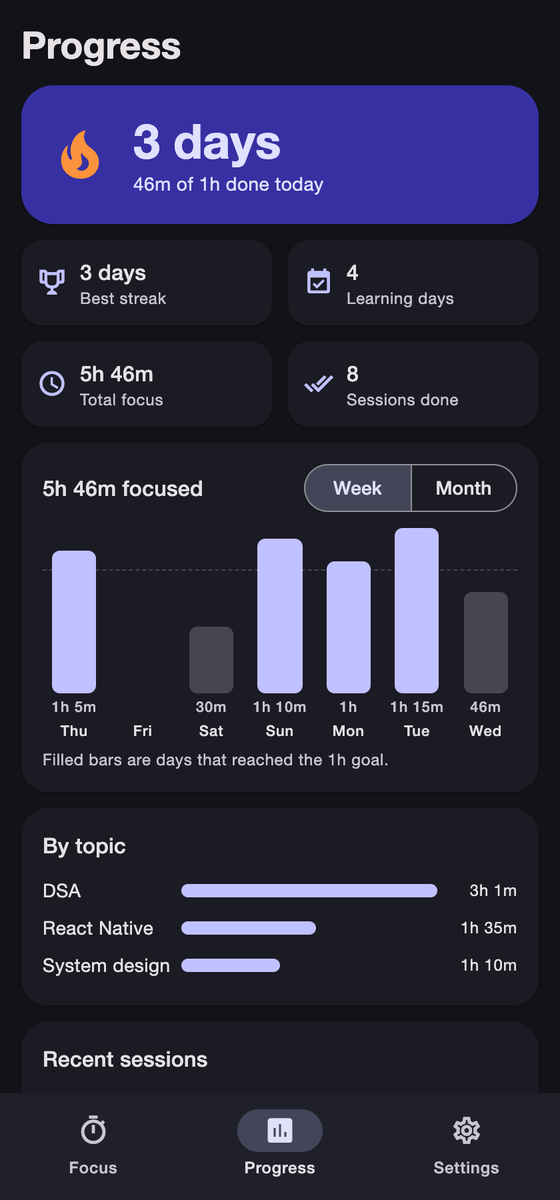
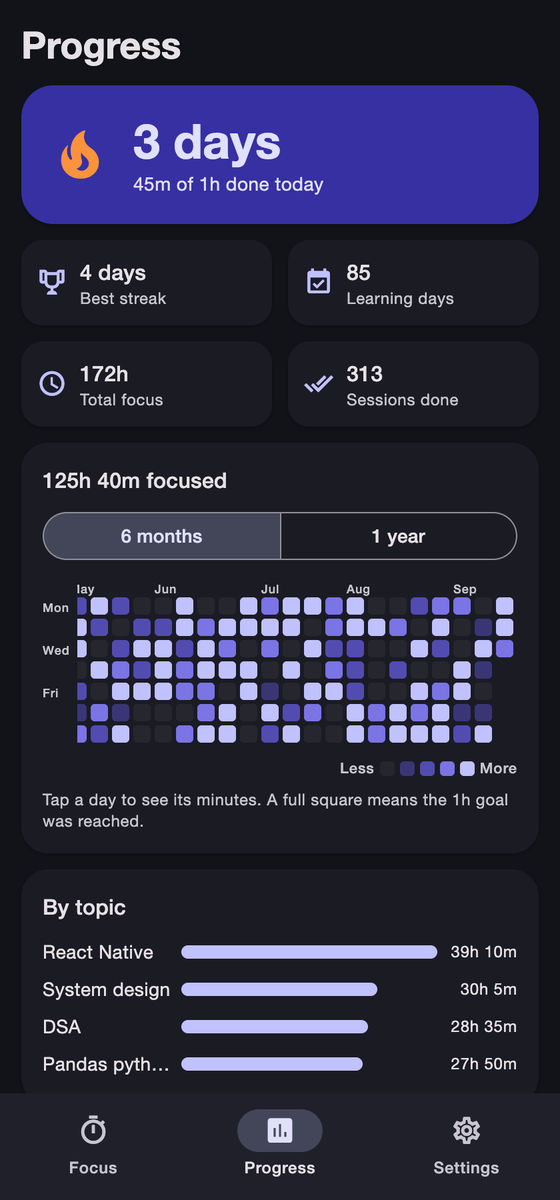
Show focus history as a GitHub-style heatmap
- New ContributionGraph: one square per day, one column per week, shaded by
  how much of the daily goal was reached; tap a day for its minutes
- Progress tab covers 6 months or a year instead of 7/30 days
- Fix 'By topic' listing abandoned sessions as 'No topic': per-topic totals
  now use the same credit rule as the streak and hide anything under a minute

diff --git a/app/src/screens/StatsScreen.js b/app/src/screens/StatsScreen.js
@@ -3,9 +3,10 @@ import { RefreshControl, ScrollView, StyleSheet, View } from 'react-native';
 import { MaterialCommunityIcons } from '@expo/vector-icons';
 import { List, SegmentedButtons, Surface, Text, useTheme } from 'react-native-paper';
 import { SafeAreaView } from 'react-native-safe-area-context';
+import { ContributionGraph } from '../components/ContributionGraph';
 import { InfoTile } from '../components/InfoTile';
 import { useFocus } from '../hooks/FocusContext';
-import { formatMinutes, formatSessionTime, weekdayOf } from '../utils/format';
+import { formatLongDate, formatMinutes, formatSessionTime } from '../utils/format';
 
 const STATUS_ICON = {
   completed: 'check-circle',
@@ -13,47 +14,11 @@ const STATUS_ICON = {
   active: 'timer-sand'
 };
 
-function BarChart({ daily, goal }) {
-  const theme = useTheme();
-  const max = Math.max(goal || 0, 30, ...daily.map((d) => d.minutes));
-  const compact = daily.length > 14;
-  return (
-    <View style={styles.chart}>
-      {goal ? (
-        // Dashed-looking goal line across the chart
-        <View
-          style={[styles.goalLine, { bottom: `${(goal / max) * 100}%`, borderColor: theme.colors.outlineVariant }]}
-        />
-      ) : null}
-      {daily.map((d) => (
-        <View key={d.date} style={styles.barCol}>
-          <View style={styles.barTrack}>
-            <View
-              style={{
-                height: `${Math.max(d.minutes ? 4 : 0, (d.minutes / max) * 100)}%`,
-                backgroundColor: d.counts_for_streak ? theme.colors.primary : theme.colors.outlineVariant,
-                borderRadius: compact ? 2 : 6
-              }}
-            />
-          </View>
-          {!compact ? (
-            <>
-              <Text variant="labelSmall" style={{ color: theme.colors.onSurfaceVariant }}>
-                {d.minutes ? formatMinutes(d.minutes) : ''}
-              </Text>
-              <Text variant="labelSmall">{weekdayOf(d.date)}</Text>
-            </>
-          ) : null}
-        </View>
-      ))}
-    </View>
-  );
-}
-
 export function StatsScreen() {
   const theme = useTheme();
   const { api, online, status, todayMinutes, goalMinutes, goalReached, pending } = useFocus();
-  const [days, setDays] = useState('7');
+  const [days, setDays] = useState('182');
+  const [selectedDay, setSelectedDay] = useState(null);
   const [stats, setStats] = useState(null);
   const [sessions, setSessions] = useState([]);
   const [loading, setLoading] = useState(false);
@@ -127,20 +92,36 @@ export function StatsScreen() {
         <Surface elevation={1} style={styles.card}>
           <View style={styles.cardHeader}>
             <Text variant="titleMedium">{formatMinutes(periodMinutes)} focused</Text>
-            <SegmentedButtons
-              density="small"
-              value={days}
-              onValueChange={setDays}
-              style={{ width: 160 }}
-              buttons={[
-                { value: '7', label: 'Week' },
-                { value: '30', label: 'Month' }
-              ]}
-            />
           </View>
-          {stats ? <BarChart daily={stats.daily} goal={streak?.goal_minutes} /> : null}
-          <Text variant="bodySmall" style={{ color: theme.colors.onSurfaceVariant, marginTop: 6 }}>
-            Filled bars are days that reached the {formatMinutes(streak?.goal_minutes ?? 60)} goal.
+          <SegmentedButtons
+            density="small"
+            value={days}
+            onValueChange={(v) => {
+              setDays(v);
+              setSelectedDay(null);
+            }}
+            style={{ marginBottom: 14 }}
+            buttons={[
+              { value: '182', label: '6 months' },
+              { value: '365', label: '1 year' }
+            ]}
+          />
+          {stats ? (
+            <ContributionGraph
+              daily={stats.daily}
+              goal={streak?.goal_minutes ?? 60}
+              selected={selectedDay}
+              onSelect={(day) => setSelectedDay((cur) => (cur?.date === day.date ? null : day))}
+            />
+          ) : null}
+          <Text variant="bodySmall" style={{ color: theme.colors.onSurfaceVariant, marginTop: 8 }}>
+            {selectedDay
+              ? `${formatLongDate(new Date(`${selectedDay.date}T00:00:00`))} · ${
+                  selectedDay.minutes ? formatMinutes(selectedDay.minutes) : 'no focus'
+                }${selectedDay.counts_for_streak ? ' · goal reached' : ''}`
+              : `Tap a day to see its minutes. A full square means the ${formatMinutes(
+                  streak?.goal_minutes ?? 60
+                )} goal was reached.`}
           </Text>
         </Surface>
 
@@ -209,13 +190,9 @@ const styles = StyleSheet.create({
   row: { flexDirection: 'row', gap: 12 },
   card: { padding: 16, borderRadius: 20 },
   cardHeader: { flexDirection: 'row', justifyContent: 'space-between', alignItems: 'center', marginBottom: 12 },
-  chart: { flexDirection: 'row', height: 160, gap: 4, alignItems: 'flex-end' },
-  goalLine: { position: 'absolute', left: 0, right: 0, borderTopWidth: 1, borderStyle: 'dashed' },
   topicRow: { flexDirection: 'row', alignItems: 'center', gap: 8, paddingVertical: 4 },
   topicName: { width: 96 },
   topicTrack: { flex: 1 },
   topicValue: { width: 52, textAlign: 'right', fontVariant: ['tabular-nums'] },
-  barCol: { flex: 1, alignItems: 'center', height: '100%', gap: 2 },
-  barTrack: { flex: 1, width: '70%', justifyContent: 'flex-end' },
   listItem: { paddingHorizontal: 0 }
 });

diff --git a/app/src/components/ContributionGraph.js b/app/src/components/ContributionGraph.js
@@ -1,0 +1,159 @@
+import React, { useEffect, useMemo, useRef } from 'react';
+import { Pressable, ScrollView, StyleSheet, View } from 'react-native';
+import { Text, useTheme } from 'react-native-paper';
+
+const CELL = 13;
+const GAP = 3;
+const STEP = CELL + GAP;
+const ROWS = 7; // Mon .. Sun
+const DAY_LABELS = ['Mon', '', 'Wed', '', 'Fri', '', ''];
+const MONTHS = ['Jan', 'Feb', 'Mar', 'Apr', 'May', 'Jun', 'Jul', 'Aug', 'Sep', 'Oct', 'Nov', 'Dec'];
+
+/** Monday = 0 ... Sunday = 6, from an ISO date string. */
+function rowOf(isoDate) {
+  const [y, m, d] = isoDate.split('-').map(Number);
+  return (new Date(y, m - 1, d).getDay() + 6) % 7;
+}
+
+function monthOf(isoDate) {
+  return Number(isoDate.slice(5, 7)) - 1;
+}
+
+/**
+ * GitHub-style heatmap of your focus days: one square per day, one column per
+ * week, darker when you focused longer. A full square means the daily goal
+ * was reached.
+ */
+export function ContributionGraph({ daily, goal, selected, onSelect }) {
+  const theme = useTheme();
+  const scrollRef = useRef(null);
+
+  const weeks = useMemo(() => {
+    const out = [];
+    let current = null;
+    daily.forEach((day) => {
+      const row = rowOf(day.date);
+      if (current === null || row === 0) {
+        current = new Array(ROWS).fill(null);
+        out.push(current);
+      }
+      current[row] = day;
+    });
+    return out;
+  }, [daily]);
+
+  // Start at the most recent week.
+  useEffect(() => {
+    const t = setTimeout(() => scrollRef.current?.scrollToEnd({ animated: false }), 50);
+    return () => clearTimeout(t);
+  }, [weeks.length]);
+
+  const levels = [
+    theme.colors.heat0,
+    theme.colors.heat1,
+    theme.colors.heat2,
+    theme.colors.heat3,
+    theme.colors.heat4
+  ];
+
+  const levelFor = (day) => {
+    if (!day || !day.minutes) return 0;
+    const share = goal ? day.minutes / goal : 0;
+    if (share >= 1) return 4;
+    if (share >= 0.66) return 3;
+    if (share >= 0.33) return 2;
+    return 1;
+  };
+
+  // A month label above the first week that starts a new month.
+  const monthLabels = weeks.map((week, i) => {
+    const first = week.find(Boolean);
+    if (!first) return null;
+    const prev = weeks[i - 1]?.find(Boolean);
+    if (i === 0 || (prev && monthOf(prev.date) !== monthOf(first.date))) {
+      return MONTHS[monthOf(first.date)];
+    }
+    return null;
+  });
+
+  return (
+    <View>
+      <View style={styles.row}>
+        <View style={styles.dayLabels}>
+          <View style={{ height: 14 }} />
+          {DAY_LABELS.map((label, i) => (
+            <View key={i} style={styles.dayLabel}>
+              <Text variant="labelSmall" style={{ color: theme.colors.onSurfaceVariant, fontSize: 9 }}>
+                {label}
+              </Text>
+            </View>
+          ))}
+        </View>
+
+        <ScrollView ref={scrollRef} horizontal showsHorizontalScrollIndicator={false}>
+          <View>
+            {/* Labels sit above the week they belong to, free to overflow it */}
+            <View style={[styles.monthRow, { width: weeks.length * STEP }]}>
+              {monthLabels.map((label, i) =>
+                label ? (
+                  <Text
+                    key={i}
+                    variant="labelSmall"
+                    style={[styles.monthLabel, { left: i * STEP, color: theme.colors.onSurfaceVariant }]}
+                  >
+                    {label}
+                  </Text>
+                ) : null
+              )}
+            </View>
+            <View style={styles.grid}>
+              {weeks.map((week, wi) => (
+                <View key={wi}>
+                  {week.map((day, di) => {
+                    const isSelected = day && selected?.date === day.date;
+                    return (
+                      <Pressable
+                        key={di}
+                        disabled={!day}
+                        onPress={() => onSelect?.(day)}
+                        style={{
+                          width: CELL,
+                          height: CELL,
+                          marginRight: GAP,
+                          marginBottom: GAP,
+                          borderRadius: 3,
+                          backgroundColor: day ? levels[levelFor(day)] : 'transparent',
+                          borderWidth: isSelected ? 1.5 : 0,
+                          borderColor: theme.colors.onSurface
+                        }}
+                      />
+                    );
+                  })}
+                </View>
+              ))}
+            </View>
+          </View>
+        </ScrollView>
+      </View>
+
+      <View style={styles.legend}>
+        <Text variant="labelSmall" style={{ color: theme.colors.onSurfaceVariant }}>Less</Text>
+        {levels.map((color, i) => (
+          <View key={i} style={[styles.legendCell, { backgroundColor: color }]} />
+        ))}
+        <Text variant="labelSmall" style={{ color: theme.colors.onSurfaceVariant }}>More</Text>
+      </View>
+    </View>
+  );
+}
+
+const styles = StyleSheet.create({
+  row: { flexDirection: 'row' },
+  dayLabels: { width: 26 },
+  dayLabel: { height: CELL + GAP, justifyContent: 'center' },
+  monthRow: { height: 14 },
+  monthLabel: { position: 'absolute', top: 0, fontSize: 9 },
+  grid: { flexDirection: 'row' },
+  legend: { flexDirection: 'row', alignItems: 'center', gap: 4, marginTop: 8, justifyContent: 'flex-end' },
+  legendCell: { width: 11, height: 11, borderRadius: 3 }
+});

diff --git a/app/src/theme/theme.js b/app/src/theme/theme.js
@@ -29,7 +29,13 @@ export const lightTheme = {
     },
     success: '#1f7a4d',
     streak: '#ea580c',
-    ringTrack: '#e3e1ec'
+    ringTrack: '#e3e1ec',
+    // Focus heatmap ramp: empty day -> daily goal reached
+    heat0: '#e7e5f0',
+    heat1: '#d3cffa',
+    heat2: '#a7a1f0',
+    heat3: '#6f68dd',
+    heat4: '#4338ca'
   }
 };
 
@@ -61,6 +67,11 @@ export const darkTheme = {
     },
     success: '#6ddba0',
     streak: '#fb923c',
-    ringTrack: '#2a2a36'
+    ringTrack: '#2a2a36',
+    heat0: '#26262f',
+    heat1: '#3a3676',
+    heat2: '#524cb0',
+    heat3: '#7b74e4',
+    heat4: '#c0c1ff'
   }
 };

diff --git a/pi/focuspi/db.py b/pi/focuspi/db.py
@@ -142,7 +142,9 @@ def daily_goal_minutes():
 def list_topics(include_archived=False):
     sql = """
         SELECT t.*,
-               COALESCE(SUM(CASE WHEN s.status != 'active' THEN s.focused_seconds END), 0) AS focused_seconds,
+               COALESCE(SUM(CASE WHEN s.status = 'completed'
+                                   OR (s.status = 'cancelled' AND s.focused_seconds >= ?)
+                                 THEN s.focused_seconds END), 0) AS focused_seconds,
                COUNT(CASE WHEN s.status = 'completed' THEN 1 END) AS completed_sessions,
                MAX(s.started_at) AS last_used_at
         FROM topics t
@@ -152,7 +154,7 @@ def list_topics(include_archived=False):
         ORDER BY t.archived, last_used_at IS NULL, last_used_at DESC, t.name
     """.format(where="" if include_archived else "WHERE t.archived = 0")
     with _connect() as conn:
-        rows = conn.execute(sql).fetchall()
+        rows = conn.execute(sql, (config.PARTIAL_CREDIT_MINUTES * 60,)).fetchall()
     return [
         {
             "id": r["id"],
@@ -483,14 +485,18 @@ def topic_totals(days=30, today=None):
     with _connect() as conn:
         rows = conn.execute(
             """SELECT COALESCE(NULLIF(label, ''), 'No topic') AS name,
-                      SUM(focused_seconds) AS seconds,
-                      COUNT(*) AS sessions
+                      SUM(CASE WHEN status = 'completed'
+                                 OR (status = 'cancelled' AND focused_seconds >= ?)
+                               THEN focused_seconds ELSE 0 END) AS seconds,
+                      COUNT(CASE WHEN status = 'completed'
+                                   OR (status = 'cancelled' AND focused_seconds >= ?)
+                                 THEN 1 END) AS sessions
                FROM sessions
                WHERE status != 'active' AND local_date >= ?
                GROUP BY name
-               HAVING seconds > 0
+               HAVING seconds >= 60
                ORDER BY seconds DESC""",
-            (start,),
+            (config.PARTIAL_CREDIT_MINUTES * 60, config.PARTIAL_CREDIT_MINUTES * 60, start),
         ).fetchall()
     return [
         {"name": r["name"], "minutes": r["seconds"] // 60, "sessions": r["sessions"]} for r in rows

diff --git a/pi/tests/test_focus.py b/pi/tests/test_focus.py
@@ -149,6 +149,25 @@ def test_topic_totals():
     assert db.topic_totals(today=today)[0] == {"name": "DSA", "minutes": 30, "sessions": 1}
 
 
+def test_topic_totals_ignore_trial_runs(monkeypatch):
+    """A session stopped after a few seconds should not show up as a topic."""
+    monkeypatch.setattr(config, "PARTIAL_CREDIT_MINUTES", 10)
+    today = date(2026, 9, 22)
+    tid = db.add_topic("Pandas")
+    start = ts(today)
+    db.start_session(30, topic_id=tid, now=start)
+    db.stop_session(now=start + 11)  # stopped after 11 seconds
+    db.start_session(30, now=start + 600)  # no topic, also abandoned
+    db.stop_session(now=start + 622)
+    assert db.topic_totals(today=today) == []
+    assert db.list_topics()[0]["focused_minutes"] == 0
+
+    db.start_session(30, topic_id=tid, now=start + 3600)
+    db.complete_due(now=start + 3600 + 1800)
+    assert db.topic_totals(today=today) == [{"name": "Pandas", "minutes": 30, "sessions": 1}]
+    assert db.list_topics()[0]["focused_minutes"] == 30
+
+
 # --- offline sync -----------------------------------------------------------
 def offline_session(client_id, day, minutes=30, status="completed", hour=9):
     start = ts(day, hour)

diff --git a/README.md b/README.md
@@ -28,8 +28,8 @@ keeps counting while you travel.
 </p>
 
 **Focus** starts a session for a topic from your list, and shows how far you are through
-today's goal. **Progress** has your streak, minutes per day and per topic, and recent
-sessions. **Settings** holds your topic list, the daily goal, OLED brightness, who may call
+today's goal. **Progress** has your streak, a GitHub-style heatmap of every focus day
+(tap a square for that day's minutes), minutes per topic, and recent sessions. **Settings** holds your topic list, the daily goal, OLED brightness, who may call
 you during focus, and Fresh start.
 
 ## What the OLED shows
